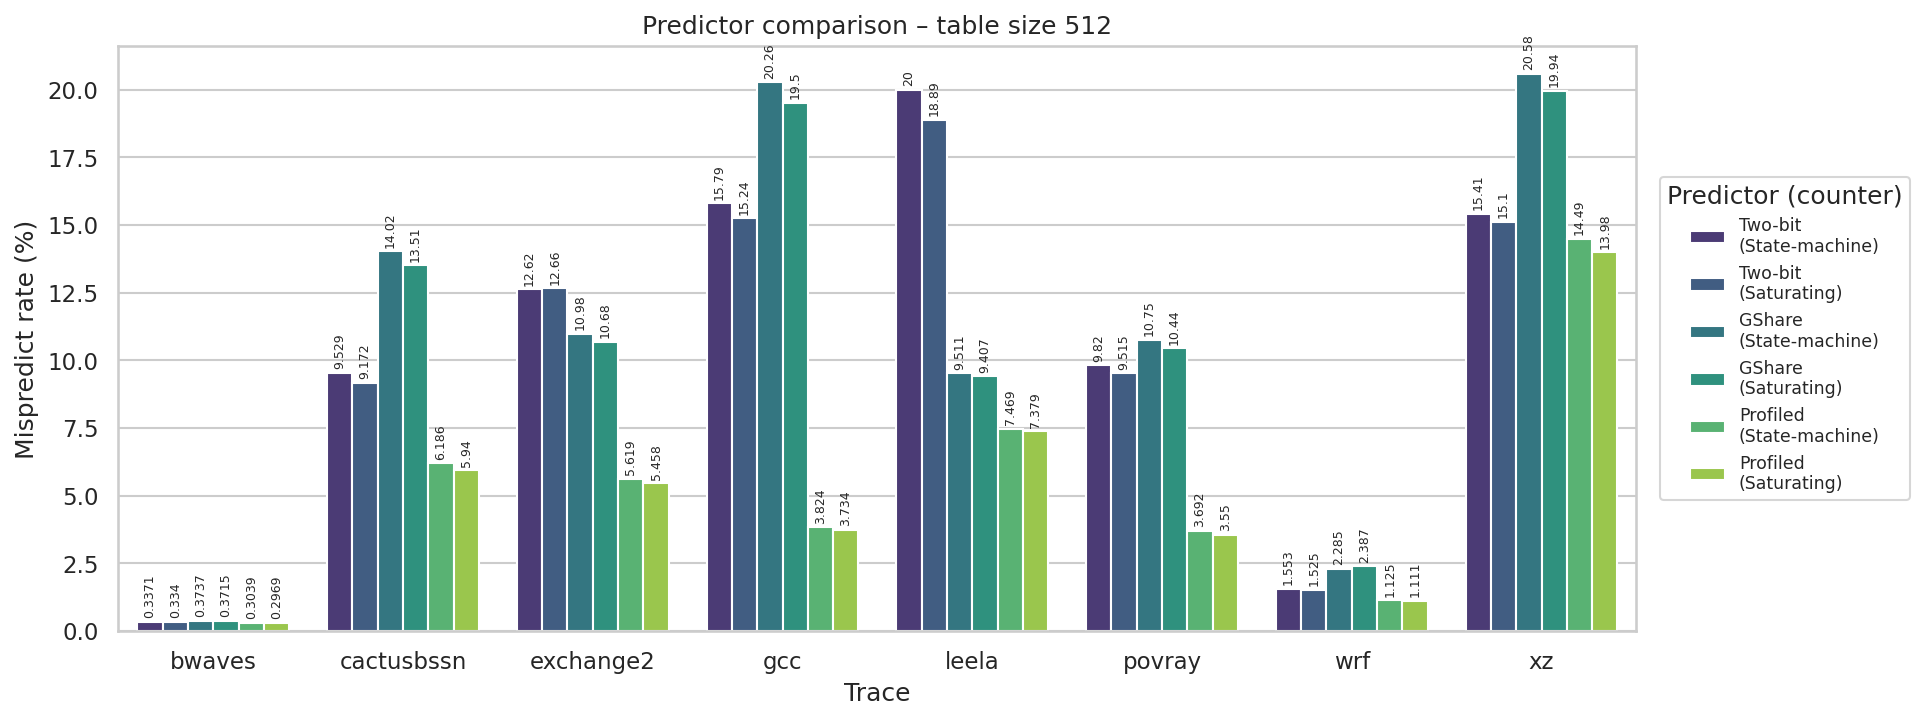
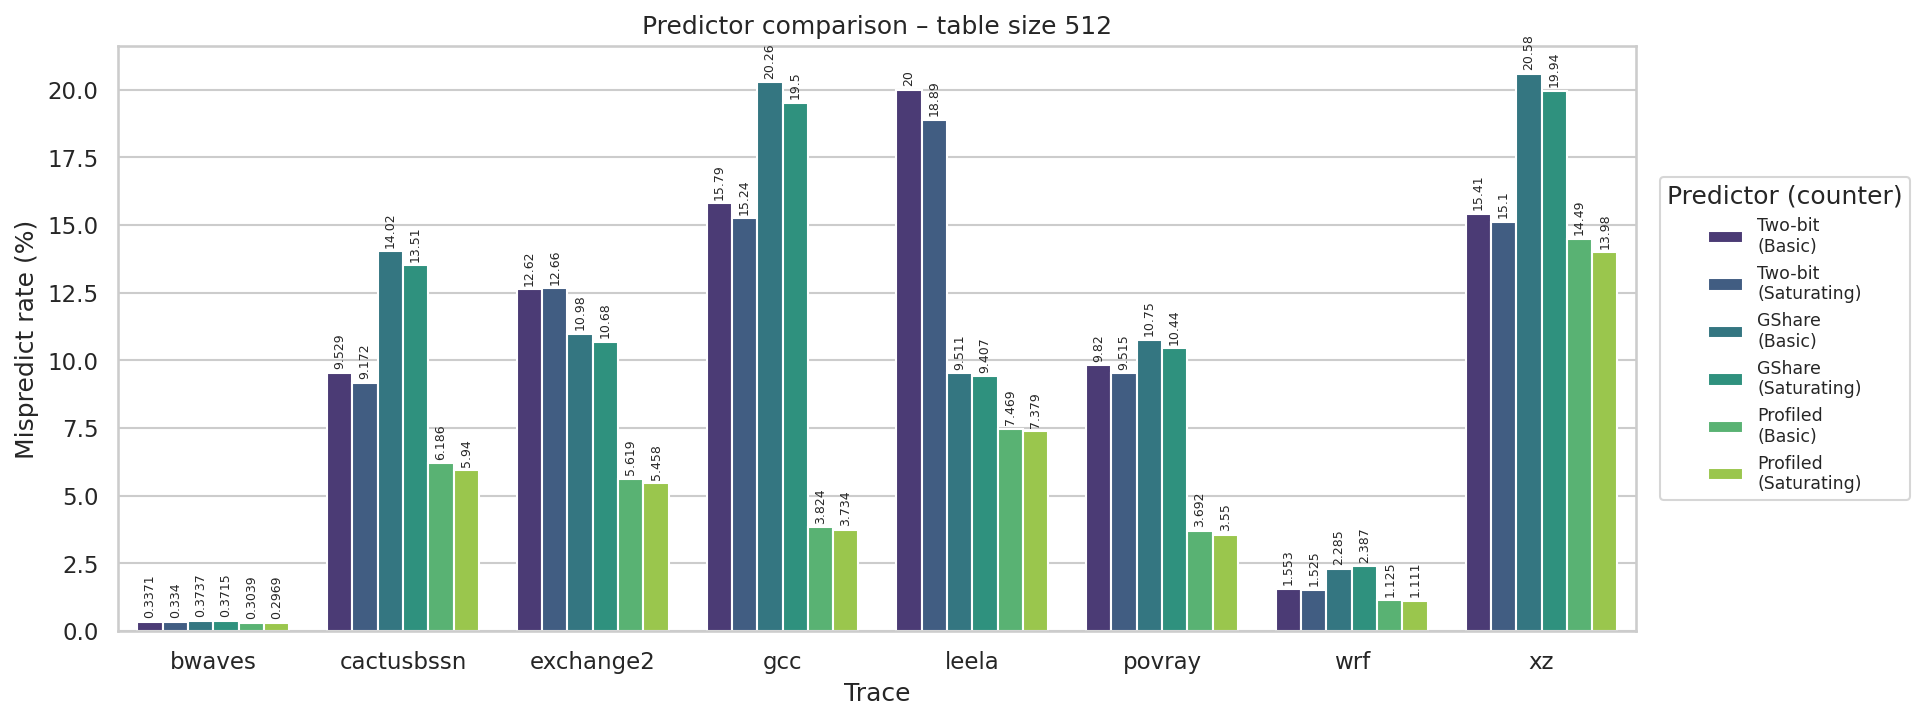
changed state-machine to basic nomenclature

Changed region(s): [[0.8732, 0.3051, 0.9667, 0.7018]]

diff --git a/src/main.rs b/src/main.rs
@@ -16,35 +16,31 @@ use tracer::{process_trace, return_branch_no};
 macro_rules! dispatch {
     ($meta:expr, $body:expr) => {
         match $meta.alg {
-            // --- original predictors ---
-            0 => { let bp = AlwaysTaken::new();              $body(bp) }
-            1 => { let bp = TwoBit::<512>::new();            $body(bp) }
-            2 => { let bp = GShare::<512>::new();            $body(bp) }
-            3 => { let bp = Profiled::<512>::new($meta.profile.clone());       $body(bp) }
-            4 => { let bp = TwoBit::<1024>::new();           $body(bp) }
-            5 => { let bp = GShare::<1024>::new();           $body(bp) }
-            6 => { let bp = Profiled::<1024>::new($meta.profile.clone());      $body(bp) }
-            7 => { let bp = TwoBit::<2048>::new();           $body(bp) }
-            8 => { let bp = GShare::<2048>::new();           $body(bp) }
-            9 => { let bp = Profiled::<2048>::new($meta.profile.clone());      $body(bp) }
-            10 => { let bp = TwoBit::<4096>::new();          $body(bp) }
-            11 => { let bp = GShare::<4096>::new();          $body(bp) }
-            12 => { let bp = Profiled::<4096>::new($meta.profile.clone());     $body(bp) }
-            // --- saturating-counter variant of TwoBit ---
-            13 => { let bp = TwoBitSat::<512>::new();        $body(bp) }
-            14 => { let bp = TwoBitSat::<1024>::new();       $body(bp) }
-            15 => { let bp = TwoBitSat::<2048>::new();       $body(bp) }
-            16 => { let bp = TwoBitSat::<4096>::new();       $body(bp) }
-            // --- state-machine-counter variant of GShare ---
-            17 => { let bp = GShareSat::<512>::new();     $body(bp) }
-            18 => { let bp = GShareSat::<1024>::new();    $body(bp) }
-            19 => { let bp = GShareSat::<2048>::new();    $body(bp) }
-            20 => { let bp = GShareSat::<4096>::new();    $body(bp) }
-            // --- state-machine-counter variant of Profiled ---
-            21 => { let bp = ProfiledSat::<512>::new($meta.profile.clone());   $body(bp) }
-            22 => { let bp = ProfiledSat::<1024>::new($meta.profile.clone());  $body(bp) }
-            23 => { let bp = ProfiledSat::<2048>::new($meta.profile.clone());  $body(bp) }
-            24 => { let bp = ProfiledSat::<4096>::new($meta.profile.clone());  $body(bp) }
+            0  => { let bp = AlwaysTaken::new(); $body(bp) }
+            1  => { let bp = TwoBit::<512>::new(); $body(bp) }
+            2  => { let bp = TwoBit::<1024>::new(); $body(bp) }
+            3  => { let bp = TwoBit::<2048>::new(); $body(bp) }
+            4  => { let bp = TwoBit::<4096>::new(); $body(bp) }
+            5  => { let bp = GShare::<512>::new(); $body(bp) }
+            6  => { let bp = GShare::<1024>::new(); $body(bp) }
+            7  => { let bp = GShare::<2048>::new(); $body(bp) }
+            8  => { let bp = GShare::<4096>::new(); $body(bp) }
+            9  => { let bp = Profiled::<512>::new($meta.profile.clone()); $body(bp) }
+            10 => { let bp = Profiled::<1024>::new($meta.profile.clone()); $body(bp) }
+            11 => { let bp = Profiled::<2048>::new($meta.profile.clone()); $body(bp) }
+            12 => { let bp = Profiled::<4096>::new($meta.profile.clone()); $body(bp) }
+            13 => { let bp = TwoBitSat::<512>::new(); $body(bp) }
+            14 => { let bp = TwoBitSat::<1024>::new(); $body(bp) }
+            15 => { let bp = TwoBitSat::<2048>::new(); $body(bp) }
+            16 => { let bp = TwoBitSat::<4096>::new(); $body(bp) }
+            17 => { let bp = GShareSat::<512>::new(); $body(bp) }
+            18 => { let bp = GShareSat::<1024>::new(); $body(bp) }
+            19 => { let bp = GShareSat::<2048>::new(); $body(bp) }
+            20 => { let bp = GShareSat::<4096>::new(); $body(bp) }
+            21 => { let bp = ProfiledSat::<512>::new($meta.profile.clone()); $body(bp) }
+            22 => { let bp = ProfiledSat::<1024>::new($meta.profile.clone()); $body(bp) }
+            23 => { let bp = ProfiledSat::<2048>::new($meta.profile.clone()); $body(bp) }
+            24 => { let bp = ProfiledSat::<4096>::new($meta.profile.clone()); $body(bp) }
             _ => panic!("Unsupported Predictor type"),
         }
     };
@@ -57,8 +53,8 @@ fn main() {
     let base_alg: u8 = match bp_alg.as_str() {
         "always"          => 0,
         "twobit"          => 1,
-        "gshare"          => 2,
-        "profiled"        => 3,
+        "gshare"          => 5,
+        "profiled"        => 9,
         "twobit_sat"      => 13,
         "gshare_sat"      => 17,
         "profiled_sat"    => 21,
@@ -79,17 +75,11 @@ fn main() {
             _ => panic!("Unsupported BP Table Size"),
         };
 
-        // Original predictors use a stride of 3 between sizes;
-        // new variants use a stride of 1 (laid out sequentially per size).
-        alg = if base_alg <= 12 {
-            base_alg + size_offset * 3
-        } else {
-            base_alg + size_offset
-        };
+        alg = base_alg + size_offset;
     }
 
     let mut profile: Option<String> = None;
-    if matches!(alg, 3 | 6 | 9 | 12 | 21 | 22 | 23 | 24) {
+    if matches!(alg, 9 | 10 | 11 | 12 | 21 | 22 | 23 | 24) {
         profile = Some(trace_path.clone());
     }
 

diff --git a/src/predictors/profiled.rs b/src/predictors/profiled.rs
@@ -106,14 +106,14 @@ impl<const N: usize> ProfiledSat<N> {
         // xor the pc_addr and ghr to index into BP table
         if hard_branch {
             let index: u64 = (pc_addr ^ self.ghr) & self.index_mask;
-            let taken: bool = self.gshare.table[index as usize].predict(agree);
+            let prediction: bool = self.gshare.table[index as usize].predict(agree);
             // store the last log2(N) bits of taken/not taken results
             self.ghr = ((self.ghr << 1) | line_taken as u64) & self.index_mask;
-            taken
+            prediction
         } else {
             let index: u64 = pc_addr & self.index_mask;
-            let taken: bool = self.easy_table.table[index as usize].predict(agree);
-            taken
+            let prediction: bool = self.easy_table.table[index as usize].predict(agree);
+            prediction
         }
     }
 } // impl Profiled<N>
@@ -124,12 +124,12 @@ impl<const N: usize> Predictor for ProfiledSat<N> {
         let bias = pct >= 0.5;
         let agree = line.taken == bias;
 
-        let taken = if self.predict_branch(line.pc_addr, agree, line.taken, hard) {
+        let prediction = if self.predict_branch(line.pc_addr, agree, line.taken, hard) {
             bias
         } else {
             !bias
         };
-        if unlikely(taken != line.taken) {
+        if unlikely(prediction != line.taken) {
             self.mispredicts += 1;
         }
     }
@@ -209,13 +209,13 @@ impl<const N: usize> Profiled<N> {
     fn predict_branch(&mut self, pc_addr: u64, agree: bool, line_taken: bool, hard_branch: bool) -> bool {
         if hard_branch {
             let index: u64 = (pc_addr ^ self.ghr) & self.index_mask;
-            let taken: bool = self.gshare.table[index as usize].predict(agree);
+            let prediction: bool = self.gshare.table[index as usize].predict(agree);
             self.ghr = ((self.ghr << 1) | line_taken as u64) & self.index_mask;
-            taken
+            prediction
         } else {
             let index: u64 = pc_addr & self.index_mask;
-            let taken: bool = self.easy_table.table[index as usize].predict(agree);
-            taken
+            let prediction: bool = self.easy_table.table[index as usize].predict(agree);
+            prediction
         }
     }
 }
@@ -226,12 +226,12 @@ impl<const N: usize> Predictor for Profiled<N> {
         let bias = pct >= 0.5;
         let agree = line.taken == bias;
 
-        let taken = if self.predict_branch(line.pc_addr, agree, line.taken, hard) {
+        let prediction = if self.predict_branch(line.pc_addr, agree, line.taken, hard) {
             bias
         } else {
             !bias
         };
-        if unlikely(taken != line.taken) {
+        if unlikely(prediction != line.taken) {
             self.mispredicts += 1;
         }
     }

diff --git a/analyse.py b/analyse.py
@@ -48,9 +48,9 @@ bias = pd.read_csv(os.path.join(RESULTS_DIR, "bias_data.csv"))
 # Each predictor has two counter variants:
 #   predictor_name  → (csv stem,          predictor label, counter label)
 PREDICTOR_FILES = [
-    ("results_twobit",          "Two-bit",  "State-machine"),
-    ("results_gshare",          "GShare",   "State-machine"),
-    ("results_profiled",        "Profiled", "State-machine"),
+    ("results_twobit",          "Two-bit",  "Basic"),
+    ("results_gshare",          "GShare",   "Basic"),
+    ("results_profiled",        "Profiled", "Basic"),
     ("results_twobit_sat",      "Two-bit",  "Saturating"),
     ("results_gshare_sat",      "GShare",   "Saturating"),
     ("results_profiled_sat",    "Profiled", "Saturating"),
@@ -75,7 +75,7 @@ for df in (always, combined, bias):
 
 TABLE_SIZES = sorted(combined["table_size"].unique())
 PREDICTORS = ["Two-bit", "GShare", "Profiled"]
-COUNTERS = ["State-machine", "Saturating"]
+COUNTERS = ["Basic", "Saturating"]
 
 
 # ---------------------------------------------------------------------------

diff --git a/src/predictors/twobit.rs b/src/predictors/twobit.rs
@@ -35,9 +35,9 @@ impl<const N: usize> Predictor for TwoBit<N> {
     fn predict(&mut self, line: &TraceEntry) {
         let index: u64 = line.pc_addr & self.index_mask;
 
-        let taken: bool = self.pht.table[index as usize].predict(line.taken);
+        let prediction: bool = self.pht.table[index as usize].predict(line.taken);
 
-        if unlikely(taken != line.taken) {
+        if unlikely(prediction != line.taken) {
             self.mispredicts += 1;
         }
     }
@@ -68,9 +68,9 @@ impl<const N: usize> Predictor for TwoBitSat<N> {
     fn predict(&mut self, line: &TraceEntry) {
         let index: u64 = line.pc_addr & self.index_mask;
 
-        let taken: bool = self.pht.table[index as usize].predict(line.taken);
+        let prediction: bool = self.pht.table[index as usize].predict(line.taken);
 
-        if unlikely(taken != line.taken) {
+        if unlikely(prediction != line.taken) {
             self.mispredicts += 1;
         }
     }
